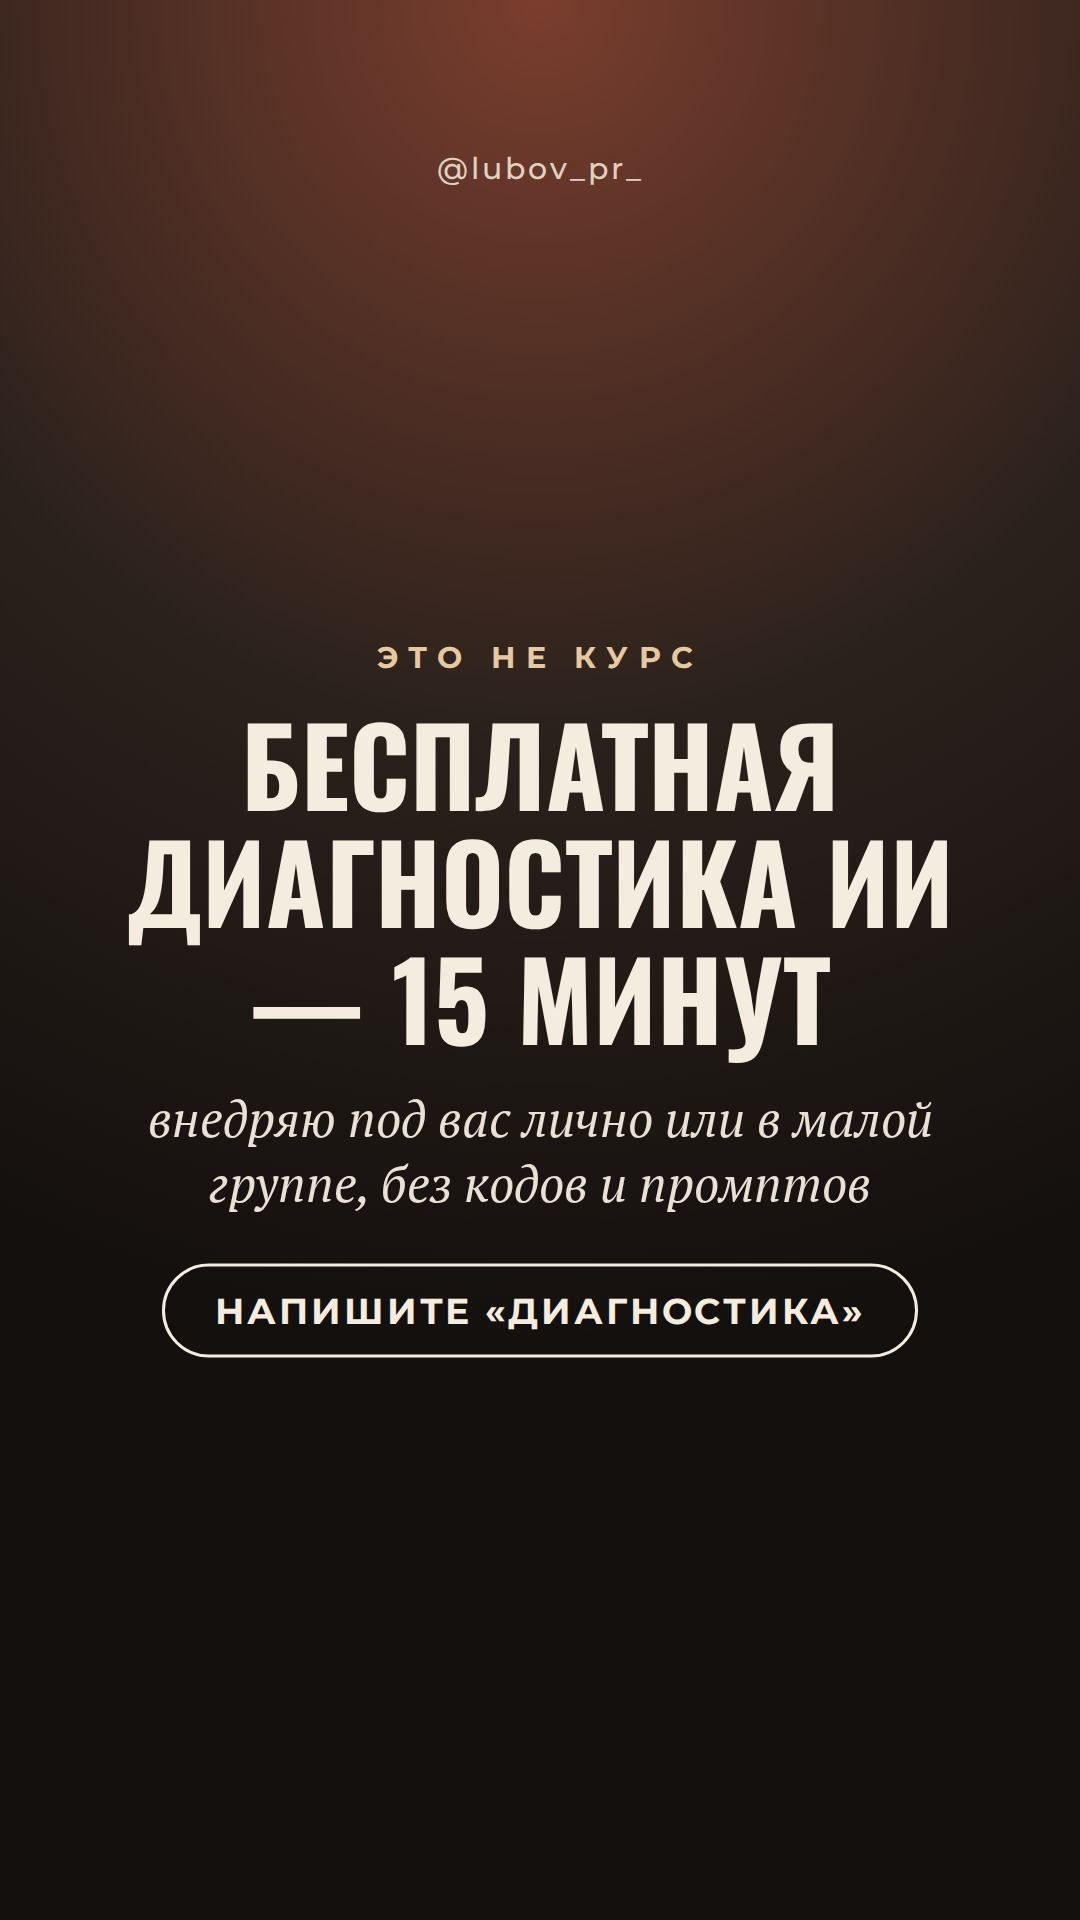
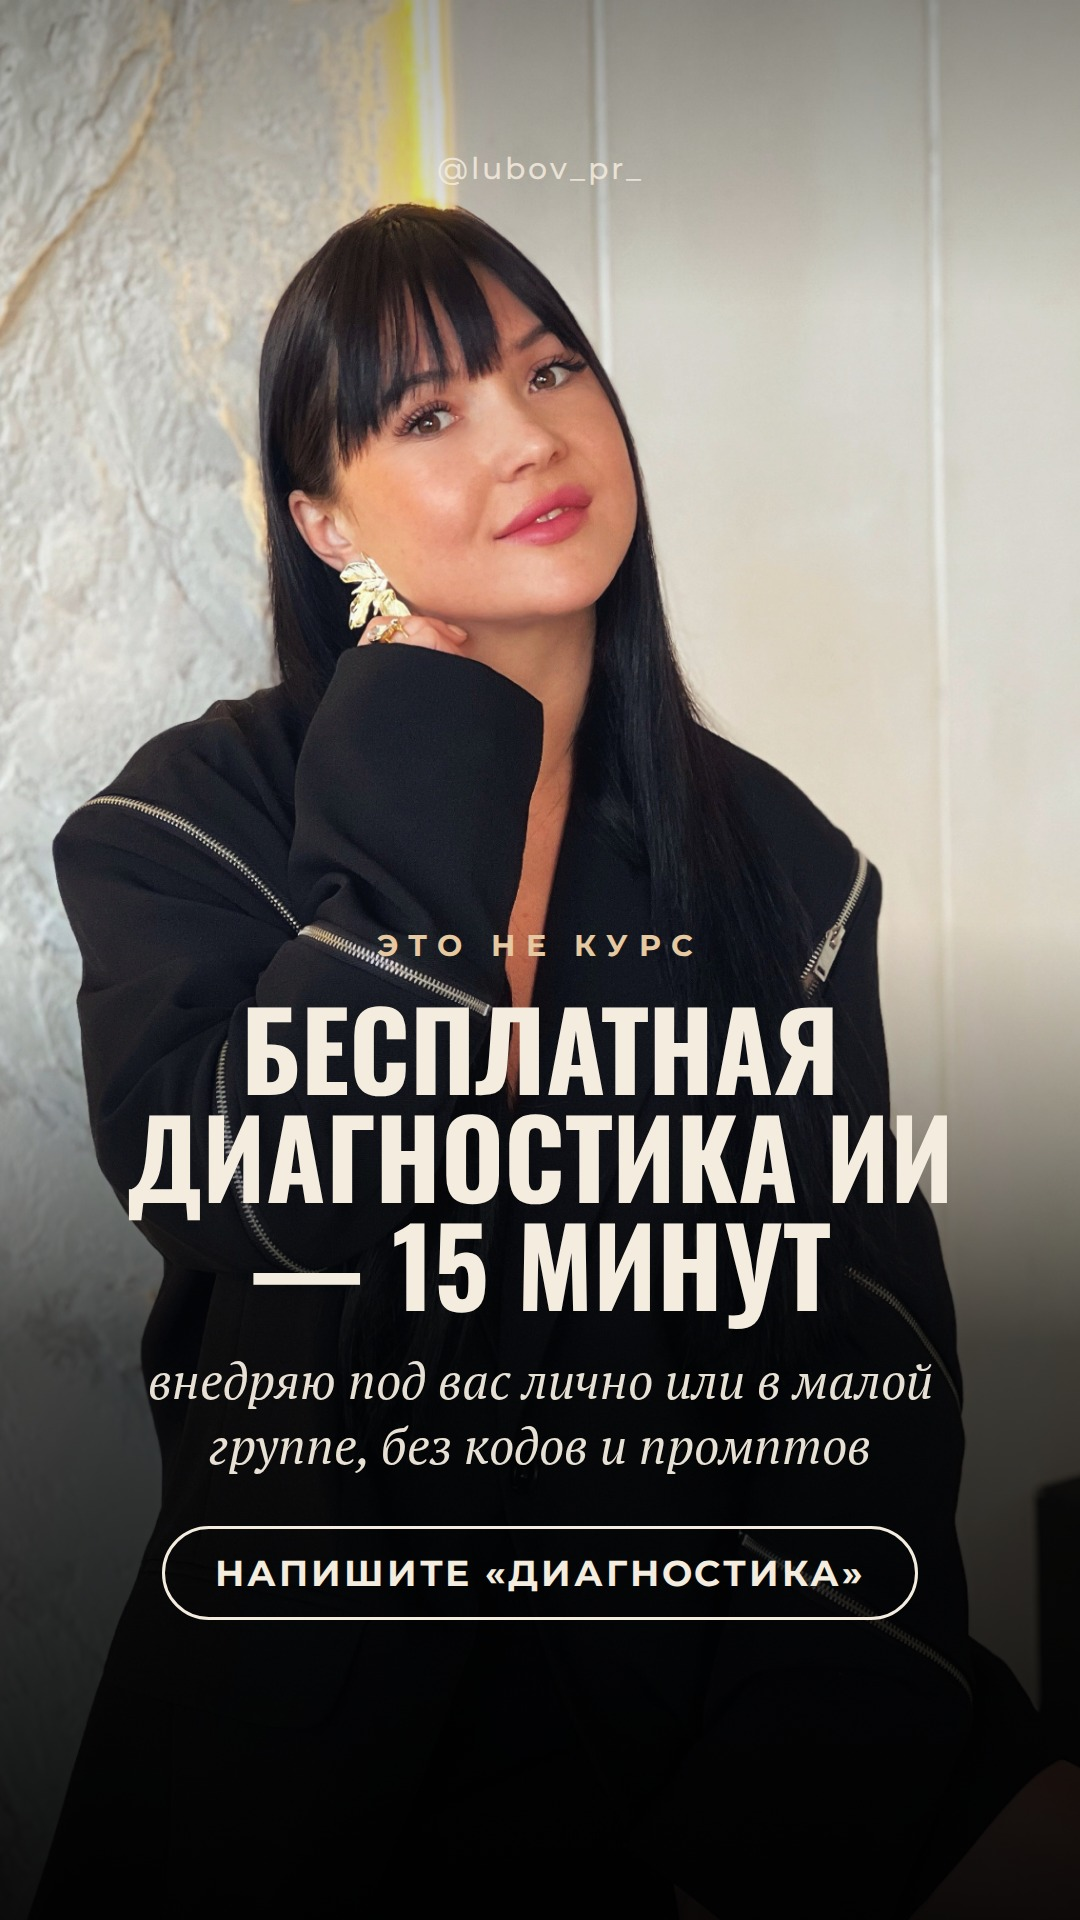
4.10: новые фото Любы, журнал использования фото

diff --git a/content/stories_2026-10-04.py b/content/stories_2026-10-04.py
@@ -1,5 +1,5 @@
 DAYS = [{'date': '2026-10-04', 'prefix': 'story', 'pill': 'НАПИШИТЕ «ДИАГНОСТИКА»', 'stories': [
-  {'photo': (None, '#6B4A35'), 'text': ('воскресный вопрос', 'Что вы делаете руками каждую неделю?', 'ответьте мне в директ одним словом — покажу, как это отдать ИИ')},
-  {'photo': (None, '#4E5A44'), 'text': ('ИИ забирает уже сейчас', 'Заявки. Контент. Отчёты.', 'три задачи, которые у моих клиентов больше не съедают выходные')},
-  {'photo': (None, '#7A3E2E'), 'text': ('это не курс', 'Бесплатная диагностика ИИ — 15 минут', 'внедряю под вас лично или в малой группе, без кодов и промптов'), 'pill': True},
+  {'photo': ('lubov2_laptop_red.jpg', '60% top'), 'text': ('воскресный вопрос', 'Что вы делаете руками каждую неделю?', 'ответьте мне в директ одним словом — покажу, как это отдать ИИ')},
+  {'photo': ('lubov2_shelf_book.jpg', '45% top'), 'text': ('ИИ забирает уже сейчас', 'Заявки. Контент. Отчёты.', 'три задачи, которые у моих клиентов больше не съедают выходные')},
+  {'photo': ('lubov2_portrait_blazer.jpg', '45% top'), 'text': ('это не курс', 'Бесплатная диагностика ИИ — 15 минут', 'внедряю под вас лично или в малой группе, без кодов и промптов'), 'pill': True},
 ]}]
